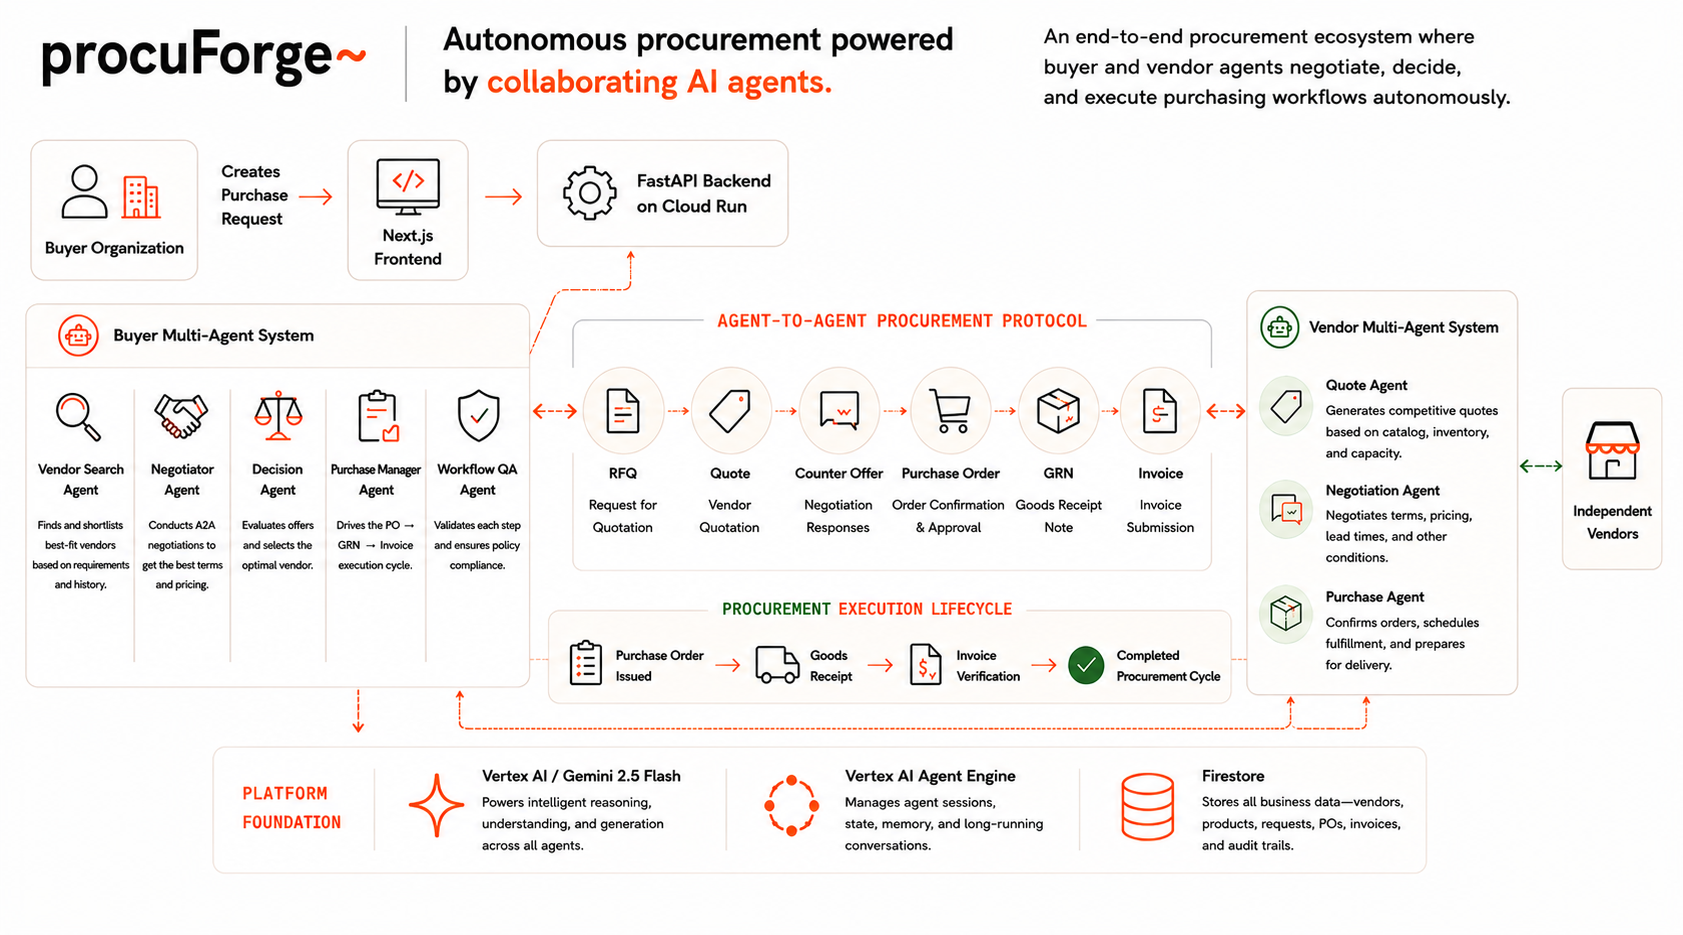
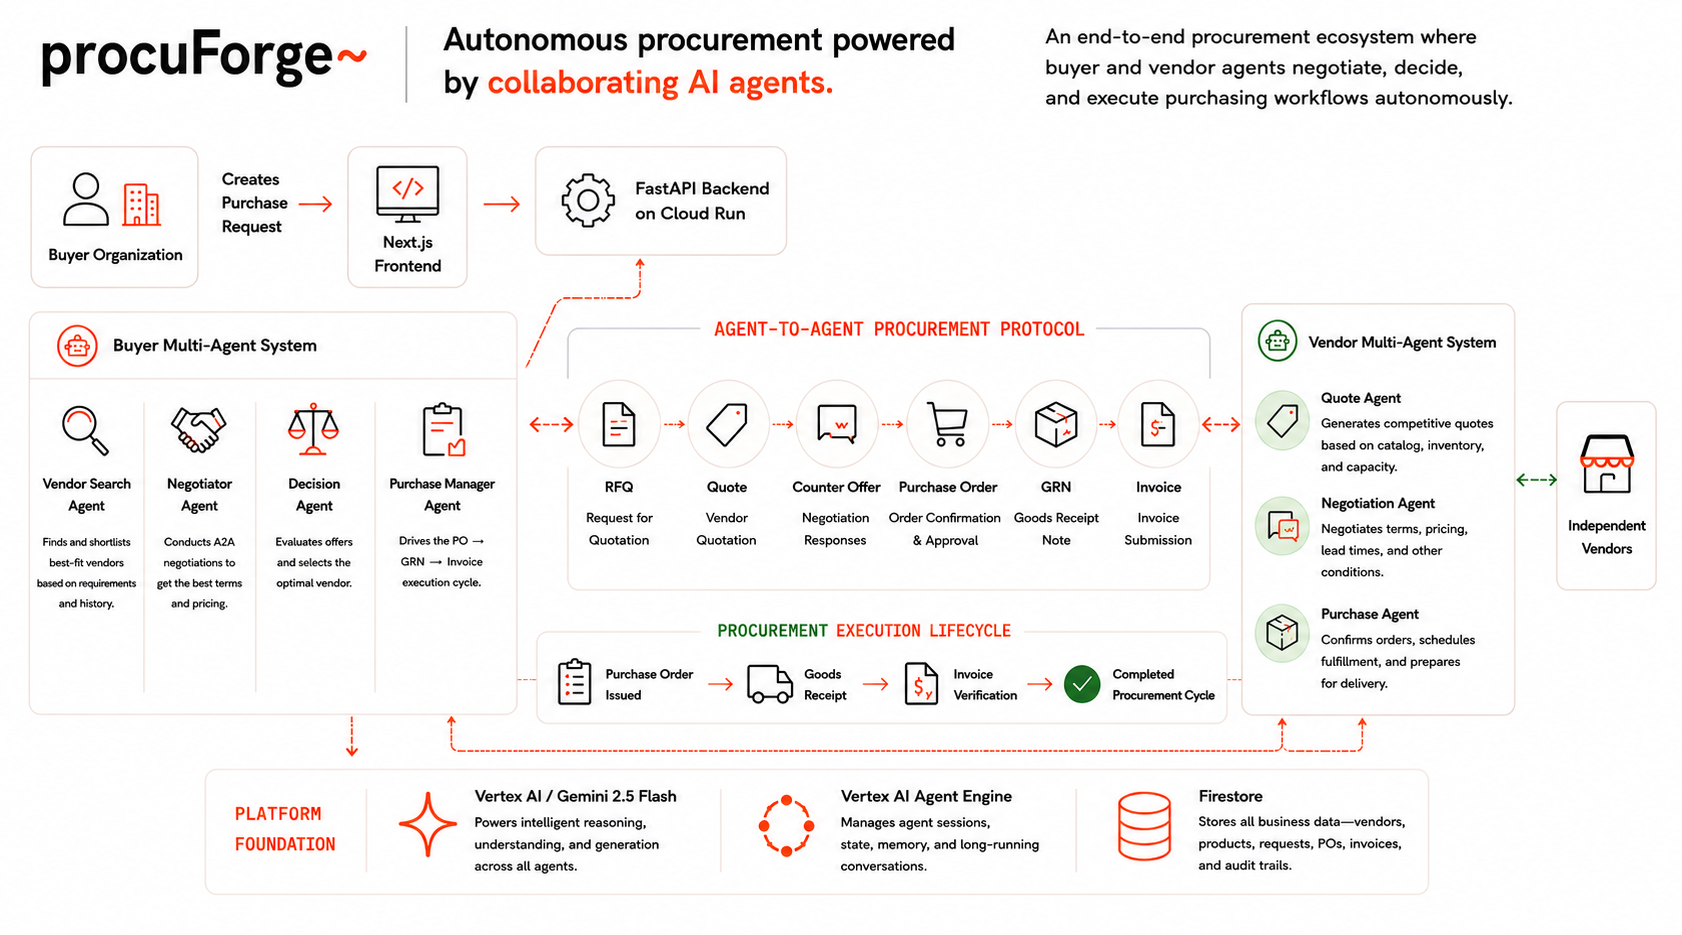
chore: update the doc

diff --git a/docs/architecture.md b/docs/architecture.md
@@ -2,6 +2,71 @@
 
 ![ProcuForge architecture](./diagram.png)
 
+```mermaid
+flowchart TB
+    Buyer["👤 Buyer Organization<br/>Creates Purchase Request"]
+    Frontend["🖥️ Next.js Frontend"]
+    Backend["⚙️ FastAPI Backend<br/>on Cloud Run"]
+    Vendors["🏭 Independent Vendors"]
+
+    Buyer --> Frontend --> Backend
+
+    subgraph BuyerMAS["Buyer Multi-Agent System"]
+        direction TB
+        VSA["🔍 Vendor Search Agent<br/>Finds & shortlists best-fit vendors"]
+        NA["💬 Negotiator Agent<br/>Runs A2A negotiations"]
+        DA["⚖️ Decision Agent<br/>Selects optimal vendor"]
+        PMA["📦 Purchase Manager Agent<br/>Drives PO → GRN → Invoice"]
+        QA["✅ Workflow QA Agent<br/>Validates & enforces policy"]
+    end
+
+    subgraph A2A["Agent-to-Agent Procurement Protocol"]
+        direction LR
+        M1["RFQ"] --- M2["QUOTE"] --- M3["COUNTER_OFFER"] --- M4["PURCHASE_ORDER"] --- M5["GRN"] --- M6["INVOICE"]
+    end
+
+    subgraph VendorMAS["Vendor Multi-Agent System"]
+        direction TB
+        QtA["💰 Quote Agent<br/>Generates competitive quotes"]
+        VNA["🤝 Negotiation Agent<br/>Negotiates price, terms, lead time"]
+        VPA["📋 Purchase Agent<br/>Confirms orders & fulfillment"]
+    end
+
+    Backend --> BuyerMAS
+    BuyerMAS <--> A2A
+    A2A <--> VendorMAS
+    VendorMAS <--> Vendors
+
+    subgraph Lifecycle["Procurement Execution Lifecycle"]
+        direction LR
+        L1["📄 Purchase Order Issued"] --> L2["📥 Goods Receipt"] --> L3["🧾 Invoice Verification"] --> L4["🎯 Completed Procurement Cycle"]
+    end
+
+    PMA -.-> Lifecycle
+
+    subgraph Foundation["Platform Foundation"]
+        direction LR
+        F1["✨ Vertex AI / Gemini 2.5 Flash<br/>Reasoning & generation"]
+        F2["🧠 Vertex AI Agent Engine<br/>Sessions, state, memory"]
+        F3["🗄️ Firestore<br/>Business data & audit trails"]
+    end
+
+    BuyerMAS -.-> Foundation
+    VendorMAS -.-> Foundation
+
+    classDef buyerStyle fill:#e3f2fd,stroke:#1976d2,color:#000
+    classDef vendorStyle fill:#fff3e0,stroke:#f57c00,color:#000
+    classDef protocolStyle fill:#f3e5f5,stroke:#7b1fa2,color:#000
+    classDef lifecycleStyle fill:#e8f5e9,stroke:#388e3c,color:#000
+    classDef foundationStyle fill:#fce4ec,stroke:#c2185b,color:#000
+
+    class VSA,NA,DA,PMA,QA buyerStyle
+    class QtA,VNA,VPA vendorStyle
+    class M1,M2,M3,M4,M5,M6 protocolStyle
+    class L1,L2,L3,L4 lifecycleStyle
+    class F1,F2,F3 foundationStyle
+```
+
 ## Flow
 
 A buyer creates a procurement request through the **Next.js frontend**, which hits the **FastAPI backend on Cloud Run**. The **Buyer Multi-Agent System** takes over: